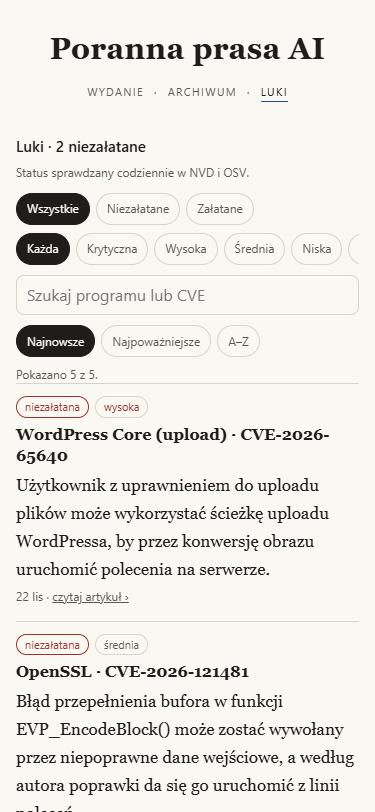
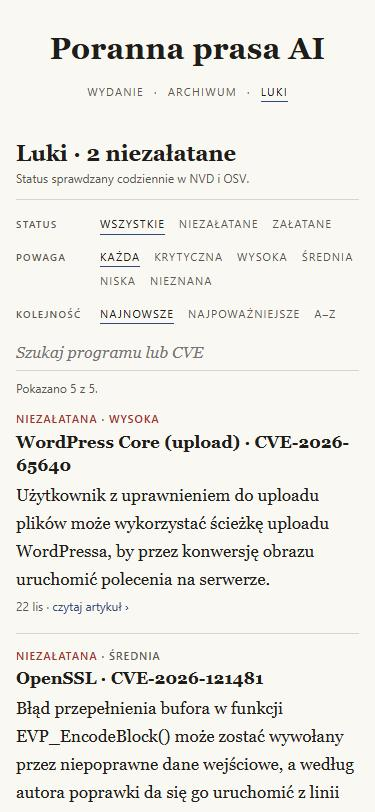
Give Luki the paper's look and make the back link readable.
The Luki filters now read like the masthead menu with a small label per group, the search is a ruled line and each entry opens with a coloured kicker instead of pills. In the reader the faint date in the corner becomes a clear 'Wydanie' back link with a finger-sized target.

diff --git a/site/styles.css b/site/styles.css
@@ -224,7 +224,10 @@ body.reading main { max-width: none; padding: 0; }
 .dateline { margin: 0; padding: 4px 0; border-top: 1px solid var(--rule); border-bottom: 1px solid var(--rule); font: 12px/1.5 var(--sans); color: var(--ink-soft); }
 
 /* Reader bar: short back link, page counter and a thin progress line under it. */
-.reader-bar .back, .reader-bar .count { color: var(--ink-soft); text-decoration: none; font: 13px/1.4 var(--sans); letter-spacing: 0.04em; }
+.reader-bar .count { color: var(--ink-soft); text-decoration: none; font: 13px/1.4 var(--sans); letter-spacing: 0.04em; }
+/* Back to the edition: clear, in the ink colour, with a finger-sized target. */
+.reader-bar .back { color: var(--ink); text-decoration: none; font: 600 15px/1.4 var(--sans); display: inline-flex; align-items: center; min-height: 44px; padding-right: 12px; }
+.reader-bar .back:hover, .reader-bar .back:focus-visible { color: var(--accent); }
 .progress { height: 2px; background: var(--rule); }
 .progress span { display: block; height: 2px; width: 0; background: var(--accent); transition: width 150ms ease-out; }
 @media (prefers-reduced-motion: reduce) { .progress span { transition: none; } }
@@ -297,23 +300,30 @@ button.chip { background: none; cursor: pointer; }
 .race strong { display: block; font-weight: 600; color: var(--ink); }
 .race span { display: block; font-size: 13px; color: var(--ink-soft); }
 
-/* Luki: the vulnerability log, with filter pills, a search box and one card per CVE. */
-.vulns-head { margin: 14px 0 6px; font: 600 15px/1.4 var(--sans); }
-.vuln-controls .chips { padding: 4px 0; }
-.vuln-search { width: 100%; margin: 6px 0; font: 16px/1.4 var(--sans); color: var(--ink); background: var(--paper); border: 1px solid var(--rule); border-radius: 8px; padding: 8px 10px; }
-.vuln { padding: 12px 0; border-top: 1px solid var(--rule); }
-.vuln h3 { margin: 6px 0 4px; font: 600 16px/1.35 var(--serif); }
+/* Luki: the vulnerability log in the paper's own type: filters like the masthead nav (small caps, the
+   chosen one underlined in the accent), a ruled search line, and a kicker over each entry. */
+.vulns-head { margin: 18px 0 2px; font: 600 22px/1.25 var(--serif); }
+.vuln-note { margin: 0 0 12px; font: 12px/1.5 var(--sans); color: var(--ink-soft); }
+.vuln-controls { border-top: 1px solid var(--rule); padding: 6px 0 4px; }
+.vuln-filter { display: grid; grid-template-columns: 84px 1fr; align-items: baseline; padding: 4px 0; }
+.vf-options { display: flex; flex-wrap: wrap; gap: 0 14px; }
+.vf-label { font: 600 10px/1.4 var(--sans); letter-spacing: 0.12em; text-transform: uppercase; color: var(--ink-soft); }
+.vf { font: 11px/1.4 var(--sans); letter-spacing: 0.1em; text-transform: uppercase; color: var(--ink-soft); background: none; border: 0; border-bottom: 1.5px solid transparent; padding: 6px 0 2px; cursor: pointer; }
+.vf:hover, .vf:focus-visible { color: var(--ink); }
+.vf[aria-pressed="true"] { color: var(--ink); border-bottom-color: var(--accent); }
+.vuln-search { width: 100%; margin: 8px 0 0; font: italic 16px/1.4 var(--serif); color: var(--ink); background: transparent; border: 0; border-bottom: 1px solid var(--rule); border-radius: 0; padding: 6px 0; }
+.vuln-search:focus { outline: none; border-bottom-color: var(--accent); }
+.vuln { padding: 14px 0; border-top: 1px solid var(--rule); }
+.vuln:first-child { border-top: 0; }
+.vuln h3 { margin: 4px 0 4px; font: 600 17px/1.35 var(--serif); }
 .vuln p { margin: 0 0 4px; }
-.vuln-tags { display: flex; flex-wrap: wrap; gap: 6px; }
-.pill { font: 11px/1.4 var(--sans); padding: 2px 8px; border-radius: 999px; border: 1px solid var(--rule); color: var(--ink-soft); }
-.vuln-open { color: var(--down); border-color: var(--down); }
-.vuln-patched { color: var(--up); border-color: var(--up); }
-.sev-crit, .sev-high { color: var(--down); }
+.vuln-kicker { font: 600 11px/1.4 var(--sans); letter-spacing: 0.08em; text-transform: uppercase; color: var(--ink-soft); }
+.vk-open, .vk-crit, .vk-high { color: var(--down); }
+.vk-patched { color: var(--up); }
 .vuln-meta { font: 12px/1.5 var(--sans); color: var(--ink-soft); }
-.vuln-meta a { color: var(--ink-soft); }
-.vulns details.patched { margin-top: 10px; }
-.vulns details.patched > summary { cursor: pointer; padding: 10px 0; font: 13px/1.4 var(--sans); color: var(--ink-soft); }
+.vuln-meta a { color: var(--accent); text-decoration: none; }
+.vulns details.patched { margin-top: 6px; border-top: 1px solid var(--rule); }
+.vulns details.patched > summary { cursor: pointer; padding: 12px 0; font: 11px/1.4 var(--sans); letter-spacing: 0.1em; text-transform: uppercase; color: var(--ink-soft); }
 .vuln-agent { margin-top: 24px; font: 12px/1.5 var(--sans); }
 .vuln-agent a { color: var(--ink-soft); }
-.vuln-note { margin: 0 0 8px; font: 12px/1.5 var(--sans); color: var(--ink-soft); }
 .vuln-count { margin: 4px 0 0; font: 12px/1.5 var(--sans); color: var(--ink-soft); }

diff --git a/site/js/vulns.js b/site/js/vulns.js
@@ -64,14 +64,15 @@ function openLabel(n) {
 }
 
 function item(v) {
+  // A kicker like the paper's category line: "NIEZAŁATANA · WYSOKA".
   const status = v.status === 'patched'
-    ? `<span class="pill vuln-patched">${v.fixed_in ? `załatana od ${escapeHtml(v.fixed_in)}` : 'załatana'}</span>`
-    : '<span class="pill vuln-open">niezałatana</span>';
-  const sev = `<span class="pill sev sev-${SEVERITY_CLASS[v.severity] || 'none'}">${escapeHtml(v.severity in SEVERITY_ORDER ? v.severity : 'nieznana')}</span>`;
+    ? `<span class="vk-patched">${v.fixed_in ? `załatana od ${escapeHtml(v.fixed_in)}` : 'załatana'}</span>`
+    : '<span class="vk-open">niezałatana</span>';
+  const sev = `<span class="vk-sev vk-${SEVERITY_CLASS[v.severity] || 'none'}">${escapeHtml(v.severity in SEVERITY_ORDER ? v.severity : 'nieznana')}</span>`;
   const meta = [shortDay(v.first_date)].filter(Boolean);
   const story = v.story || {};
   if (story.date && Number(story.n) > 0) meta.push(`<a href="#/${escapeHtml(story.date)}/${escapeHtml(story.n)}">czytaj artykuł ›</a>`);
-  return `<article class="vuln"><p class="vuln-tags">${status}${sev}</p><h3>${escapeHtml(v.product)} · ${escapeHtml(v.cve_id)}</h3><p>${escapeHtml(v.summary)}</p><p class="vuln-meta">${meta.join(' · ')}</p></article>`;
+  return `<article class="vuln"><p class="vuln-kicker">${status} · ${sev}</p><h3>${escapeHtml(v.product)} · ${escapeHtml(v.cve_id)}</h3><p>${escapeHtml(v.summary)}</p><p class="vuln-meta">${meta.join(' · ')}</p></article>`;
 }
 
 // The list alone, so typing in the search box can redraw it without touching the input.
@@ -88,10 +89,13 @@ export function renderVulnList(data, state) {
   return open.map(item).join('') + fold;
 }
 
-function pills(kind, options, current, attr) {
-  return options
-    .map(([value, label]) => `<button type="button" class="chip" ${attr}="${kind ? `${kind}:` : ''}${escapeHtml(value)}" aria-pressed="${value === current}">${label}</button>`)
+// One filter group in the style of the masthead nav: a small label, then text buttons, the chosen one
+// underlined in the accent.
+function filterGroup(label, kind, options, current, attr) {
+  const buttons = options
+    .map(([value, text]) => `<button type="button" class="vf" ${attr}="${kind ? `${kind}:` : ''}${escapeHtml(value)}" aria-pressed="${value === current}">${text}</button>`)
     .join('');
+  return `<div class="vuln-filter" role="group" aria-label="${label}"><span class="vf-label">${label}</span><span class="vf-options">${buttons}</span></div>`;
 }
 
 export function renderVulns(data, state) {
@@ -102,10 +106,10 @@ export function renderVulns(data, state) {
 <h2 class="vulns-head">Luki · ${openLabel(open)}</h2>
 <p class="vuln-note">Status sprawdzany codziennie w NVD i OSV.</p>
 <div class="vuln-controls">
-<div class="chips" role="group" aria-label="Status">${pills('status', STATUS_PILLS, s.status, 'data-vf')}</div>
-<div class="chips" role="group" aria-label="Powaga">${pills('severity', SEVERITY_PILLS, s.severity, 'data-vf')}</div>
+${filterGroup('Status', 'status', STATUS_PILLS, s.status, 'data-vf')}
+${filterGroup('Powaga', 'severity', SEVERITY_PILLS, s.severity, 'data-vf')}
+${filterGroup('Kolejność', '', SORT_PILLS, s.sort, 'data-vs')}
 <input type="search" class="vuln-search" data-vq placeholder="Szukaj programu lub CVE" aria-label="Szukaj programu lub CVE" value="${escapeHtml(s.q)}">
-<div class="chips" role="group" aria-label="Sortowanie">${pills('', SORT_PILLS, s.sort, 'data-vs')}</div>
 </div>
 <p class="vuln-count" aria-live="polite">${vulnCountText(data, s)}</p>
 <div class="vuln-list">${renderVulnList(data, s)}</div>

diff --git a/tests/vulns-site.test.js b/tests/vulns-site.test.js
@@ -127,3 +127,21 @@ test('minor: the number of results is announced politely', () => {
   assert.equal(vulnCountText(null, VULN_DEFAULTS), '');
   assert.match(renderVulns(data(), { ...VULN_DEFAULTS, q: 'gpg' }), /<p class="vuln-count" aria-live="polite">Pokazano 1 z 4\.<\/p>/);
 });
+
+test('Luki filters look like the masthead nav, with a label per group, not pills', () => {
+  const html = renderVulns(data(), VULN_DEFAULTS);
+  assert.ok(!html.includes('class="chip"'));
+  assert.ok(!html.includes('class="pill'));
+  assert.match(html, /<div class="vuln-filter" role="group" aria-label="Status"><span class="vf-label">Status<\/span>/);
+  assert.match(html, /<span class="vf-label">Powaga<\/span>/);
+  assert.match(html, /<span class="vf-label">Kolejność<\/span>/);
+  assert.match(html, /<button type="button" class="vf" data-vf="status:all" aria-pressed="true">Wszystkie<\/button>/);
+});
+
+test('an entry opens with a kicker in the paper style: status and severity', () => {
+  const open = renderVulns(data(), VULN_DEFAULTS);
+  assert.match(open, /<p class="vuln-kicker"><span class="vk-open">niezałatana<\/span> · <span class="vk-sev vk-crit">krytyczna<\/span><\/p><h3>GPGME/);
+  const patched = renderVulns(data(), { ...VULN_DEFAULTS, status: 'patched' });
+  assert.match(patched, /<span class="vk-patched">załatana od 10\.08\.0<\/span> · <span class="vk-sev vk-high">wysoka<\/span>/);
+  assert.match(renderVulns(data(), VULN_DEFAULTS), /<span class="vk-sev vk-none">nieznana<\/span>/);
+});

diff --git a/tests/reader.test.js b/tests/reader.test.js
@@ -124,7 +124,7 @@ test('the reader bar has a short back link, the page counter and a progress line
   const e = real();
   const total = 1 + e.stories.length;
   const html = renderReader(e, profiles, 5);
-  assert.ok(html.includes('<a class="back" href="#/2026-11-19" aria-label="Wróć do wydania z 19 listopada">‹ 19 lis</a>'));
+  assert.ok(html.includes('<a class="back" href="#/2026-11-19" aria-label="Wróć do wydania z 19 listopada">← Wydanie</a>'));
   assert.ok(html.includes(`<span class="count">5 / ${total}</span>`));
   assert.ok(html.includes('class="progress"'));
   assert.ok(!html.includes('pierwsza strona'));
@@ -178,4 +178,9 @@ test('a subhead block may carry its first paragraph on the next line, and ### wo
   const last = renderReader(e, profiles, 1).slice(-3000);
   assert.ok(last.includes('<h3>Rynek</h3><p>Nvidia spadła.</p>'));
   assert.ok(last.includes('<h3>Modele</h3><p>Akapit.</p>'));
+});
+
+test('the back link reads clearly in the ink colour, not as a small grey date', () => {
+  const css = readFileSync(new URL('../site/styles.css', import.meta.url), 'utf8');
+  assert.match(css, /\.reader-bar \.back\s*\{[^}]*color:\s*var\(--ink\)[^}]*font:\s*600 15px/);
 });

diff --git a/site/js/reader.js b/site/js/reader.js
@@ -100,7 +100,7 @@ export function renderReader(edition, profilesById, page, { feedback = false, ra
     })
     .join('');
   return `<div class="reader" data-page="${escapeHtml(page)}">
-<header class="reader-bar"><a class="back" href="#/${escapeHtml(e.date)}" aria-label="${escapeHtml(backLabel(e.date))}">‹ ${escapeHtml(shortDate(e.date))}</a><span class="count">${escapeHtml(page)} / ${total}</span></header>
+<header class="reader-bar"><a class="back" href="#/${escapeHtml(e.date)}" aria-label="${escapeHtml(backLabel(e.date))}">← Wydanie</a><span class="count">${escapeHtml(page)} / ${total}</span></header>
 <div class="progress"><span></span></div>
 <button class="arrow arrow-prev" data-step="-1" aria-label="poprzednia strona">‹</button>
 <div class="pages">${sections}</div>
@@ -176,7 +176,3 @@ function backLabel(dateStr) {
   return p ? `Wróć do wydania z ${p.day} ${_MONTHS_GENITIVE[p.month - 1]}` : 'Wróć do wydania';
 }
 
-function shortDate(dateStr) {
-  const p = dateParts(dateStr);
-  return p ? `${p.day} ${p.monthShort}` : String(dateStr || '');
-}
